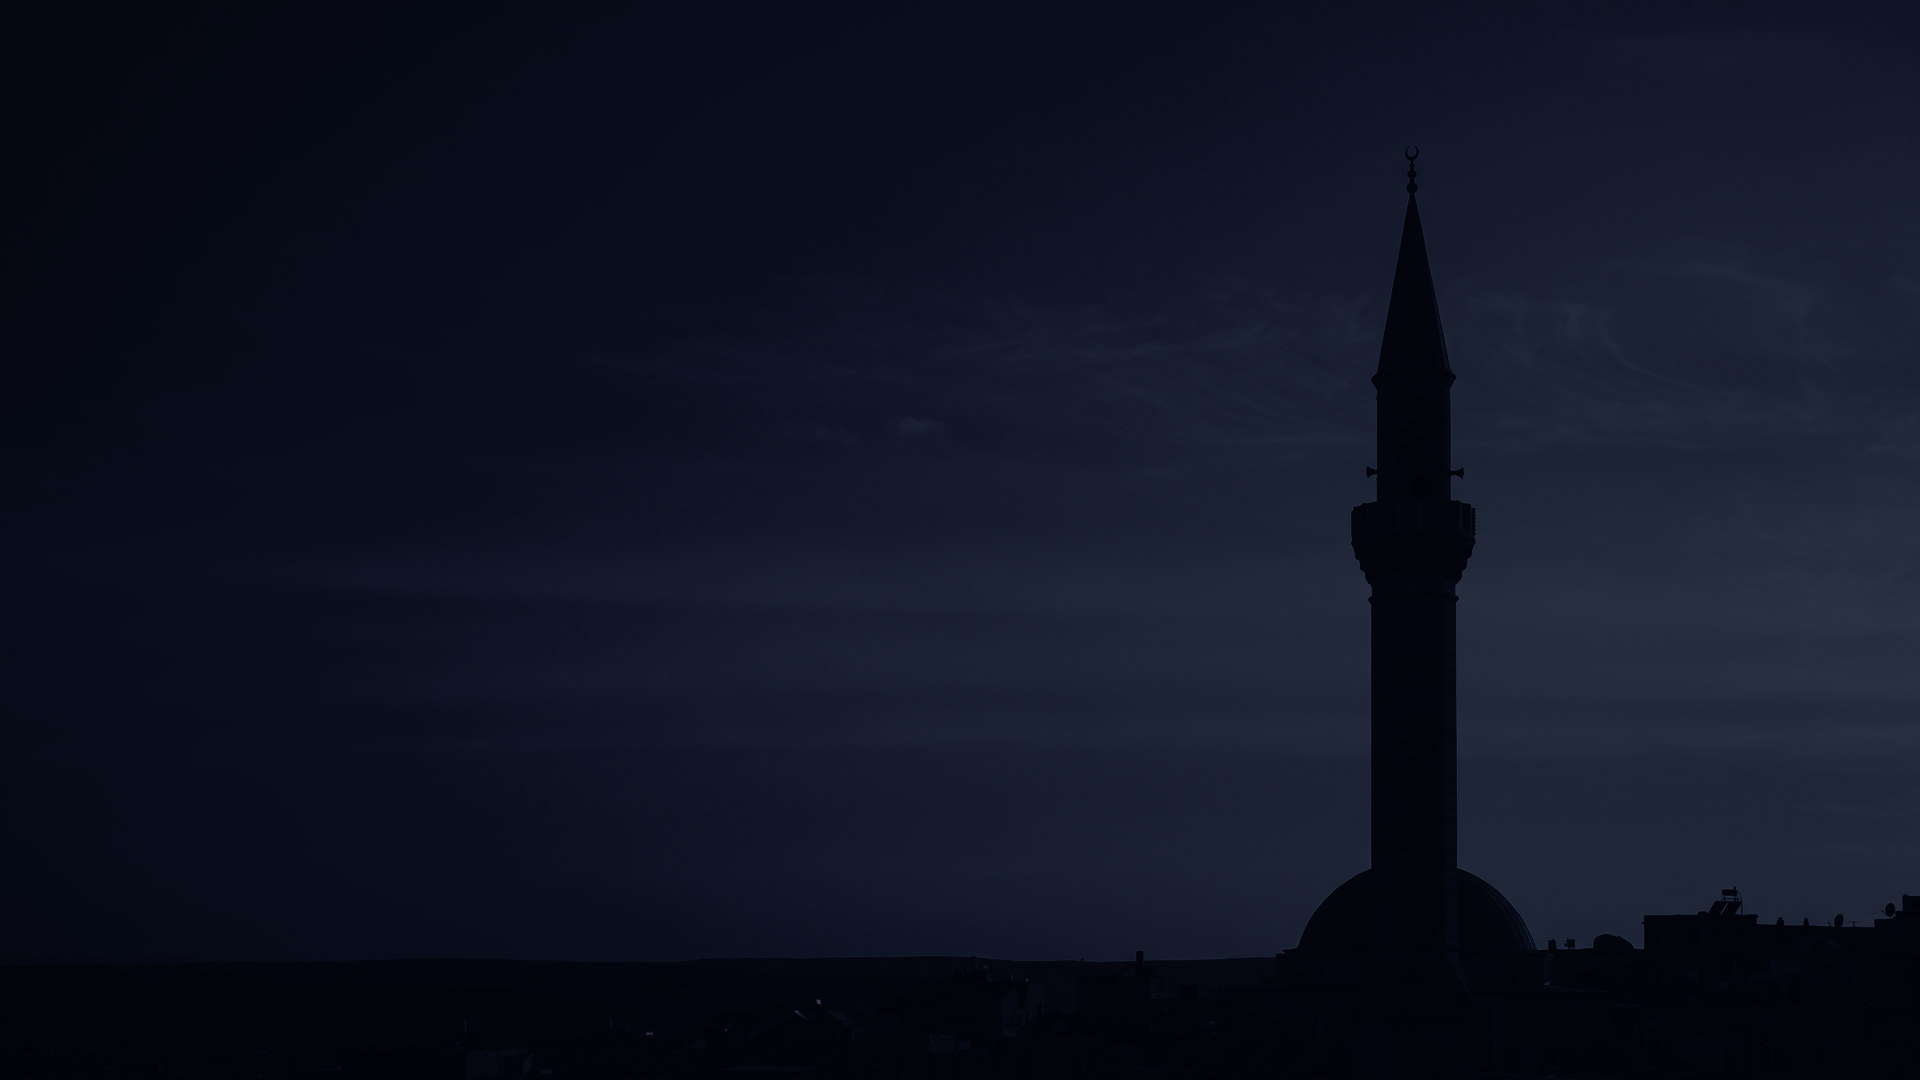
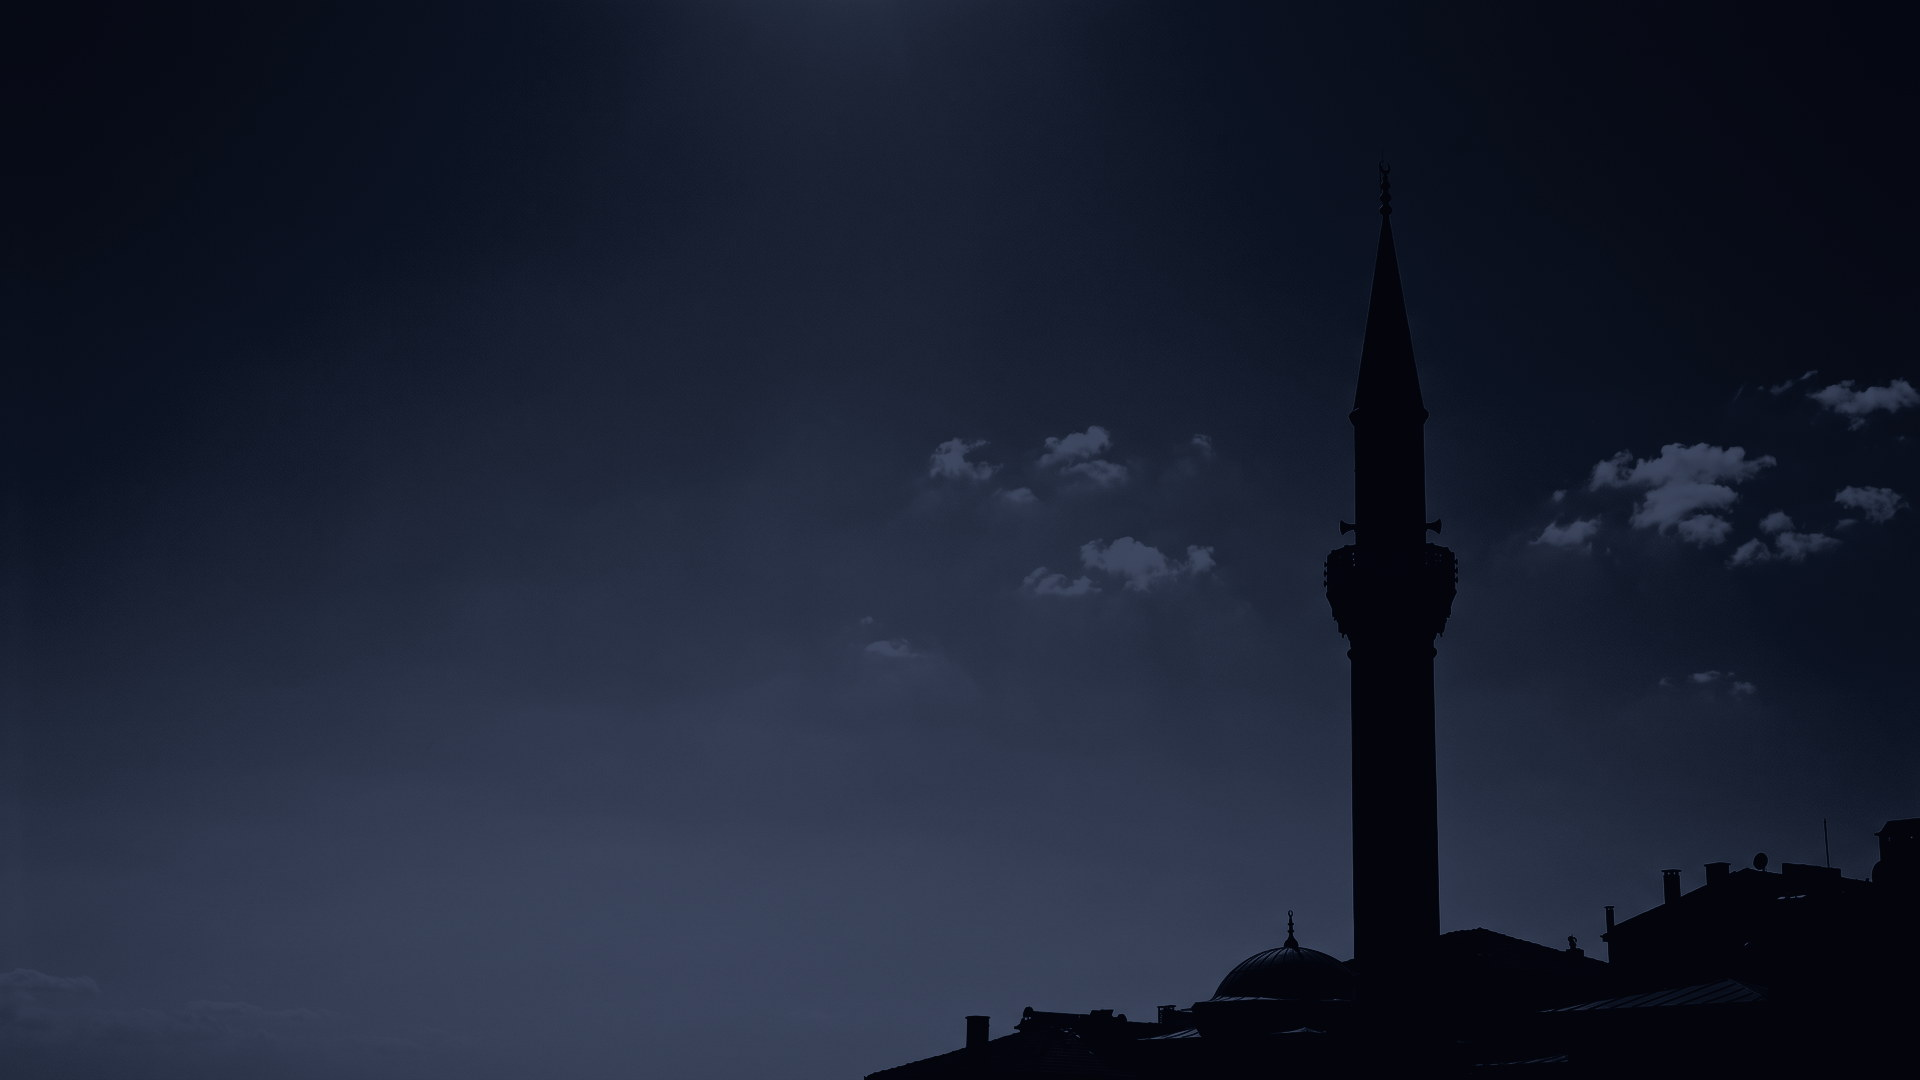
Fix daytime brightness; add ?at= time preview and an hours contact sheet
The master was shot at blue hour, so recolouring it could never produce a
bright midday — Dhuhr inherited a dim source and read as dusk at 2pm.
New master is genuinely high-key (mean luminance 0.68), and each hour now
gets its own gamma on the shared luminance channel as well as its own
tritone. Gamma is monotonic so pixel correspondence, and the no-ghost
property, survive. Dhuhr 0.77 vs Isha 0.13.

Scrim was a broad wash flattening the bright sky back to dusk; it is now
local to where type actually sits.

diff --git a/hours.html b/hours.html
@@ -1,0 +1,72 @@
+<!doctype html>
+<html lang="en">
+<head>
+<meta charset="utf-8">
+<meta name="viewport" content="width=device-width, initial-scale=1">
+<title>bilal — the day</title>
+<link href="https://fonts.googleapis.com/css2?family=Prata&family=Archivo:wght@400;500;600&display=swap" rel="stylesheet">
+<style>
+  :root{--clay:#d9a48f;--cream:#f6efe7;--deep:#17140f;--veil:rgba(246,239,231,.44)}
+  *{box-sizing:border-box;margin:0;padding:0}
+  body{background:var(--deep);color:var(--cream);font-family:'Archivo',system-ui,sans-serif;
+       padding:48px 40px 64px}
+  h1{font-family:'Prata',Georgia,serif;font-size:38px;letter-spacing:-.02em;font-weight:400}
+  .sub{color:var(--veil);margin-top:10px;font-size:15px;line-height:1.6;max-width:70ch}
+  .sub b{color:var(--clay);font-weight:600}
+  .grid{margin-top:40px;display:grid;gap:34px;
+        grid-template-columns:repeat(auto-fit,minmax(460px,1fr))}
+  .cell{}
+  .lab{display:flex;align-items:baseline;justify-content:space-between;
+       margin-bottom:12px;padding-bottom:10px;border-bottom:1px solid rgba(246,239,231,.14)}
+  .lab .n{font-family:'Prata',Georgia,serif;font-size:22px}
+  .lab .t{font-size:13px;letter-spacing:.16em;text-transform:uppercase;color:var(--clay);font-weight:600}
+  .lab .d{font-size:13px;color:var(--veil);margin-left:14px}
+  .frame{position:relative;width:100%;padding-top:56.25%;overflow:hidden;
+         border-radius:4px;background:#000}
+  .frame iframe{position:absolute;top:0;left:0;width:1920px;height:1080px;border:0;
+                transform-origin:top left}
+</style>
+</head>
+<body>
+  <h1>bilal, across one day</h1>
+  <p class="sub">Every panel is the real display running live, with the clock overridden.
+     All five skies are <b>one photograph</b> graded five ways off a shared luminance
+     channel, so the minaret never shifts and the blend between them has nothing to ghost.
+     The sky moves <b>continuously</b> through each window rather than snapping — the last
+     panel catches it mid-handover.<br>
+     Preview any moment yourself by adding <b>?at=HH:MM</b> to the display URL.</p>
+
+  <div class="grid" id="grid"></div>
+
+<script>
+  var HOURS=[
+    {n:'fajr',    at:'04:20', d:'before first light'},
+    {n:'dhuhr',   at:'12:30', d:'high and open'},
+    {n:'asr',     at:'17:45', d:'long gold'},
+    {n:'maghrib', at:'20:20', d:'ember'},
+    {n:'isha',    at:'22:00', d:'night, stars drifting'},
+    {n:'mid-handover', at:'19:40', d:'asr becoming maghrib'}
+  ];
+  var g=document.getElementById('grid');
+  g.innerHTML=HOURS.map(function(h){
+    return '<div class="cell">'
+      + '<div class="lab"><span><span class="n">'+h.n+'</span>'
+      + '<span class="d">'+h.d+'</span></span><span class="t">'+h.at+'</span></div>'
+      + '<div class="frame"><iframe scrolling="no" loading="lazy" '
+      + 'src="index.html?quiet=1&at='+h.at+'"></iframe></div></div>';
+  }).join('');
+
+  // scale each 1920x1080 frame down to whatever width the column ended up
+  function fit(){
+    var frames=document.querySelectorAll('.frame');
+    for(var i=0;i<frames.length;i++){
+      var w=frames[i].clientWidth;
+      frames[i].querySelector('iframe').style.transform='scale('+(w/1920)+')';
+    }
+  }
+  window.addEventListener('resize',fit);
+  window.addEventListener('load',fit);
+  fit();
+</script>
+</body>
+</html>

diff --git a/index.html b/index.html
@@ -143,9 +143,12 @@ body.cursor{cursor:auto}
 /* scrim: pure gradients, no blur. Darkens where type lives. */
 #scrim{position:fixed;top:0;right:0;bottom:0;left:0;z-index:2;pointer-events:none;
   background:
-    linear-gradient(to bottom, rgba(23,20,15,.62) 0%, rgba(23,20,15,.26) 14%, rgba(23,20,15,0) 32%),
-    linear-gradient(to top,    rgba(23,20,15,.92) 0%, rgba(23,20,15,.66) 26%, rgba(23,20,15,0) 60%),
-    linear-gradient(to right,  rgba(23,20,15,.70) 0%, rgba(23,20,15,.22) 48%, rgba(23,20,15,0) 78%)}
+    /* A broad wash was flattening a bright midday sky back into dusk. These are
+       tighter and local: protect exactly where type sits, leave the sky open. */
+    radial-gradient(ellipse 58% 42% at 20% 47%, rgba(23,20,15,.52) 0%, rgba(23,20,15,.20) 52%, rgba(23,20,15,0) 78%),
+    linear-gradient(to bottom, rgba(23,20,15,.44) 0%, rgba(23,20,15,.14) 13%, rgba(23,20,15,0) 26%),
+    linear-gradient(to top,    rgba(23,20,15,.90) 0%, rgba(23,20,15,.52) 22%, rgba(23,20,15,0) 46%),
+    linear-gradient(to right,  rgba(23,20,15,.50) 0%, rgba(23,20,15,.14) 42%, rgba(23,20,15,0) 68%)}
 #wash{position:fixed;top:0;right:0;bottom:0;left:0;z-index:2;pointer-events:none;
   background:radial-gradient(ellipse at 30% 62%, rgba(217,164,143,.30) 0%, rgba(217,164,143,.06) 42%, rgba(23,20,15,0) 72%);
   opacity:0;-webkit-transition:opacity 1s ease;transition:opacity 1s ease}
@@ -341,8 +344,18 @@ body.dimmed #scrim{opacity:.5}
     mode: Q.get('mode')||'home',
     athan:Q.get('athan')||'athan.mp3',
     quiet:Q.get('quiet')==='1',
-    dim:  Q.get('dim')!=='0'
+    dim:  Q.get('dim')!=='0',
+    at:   Q.get('at')||''          // ?at=17:40 to preview any hour
   };
+
+  // Time override for previewing. Real clock unless ?at= is given.
+  var SHIFT=0;
+  if(/^\d{1,2}:\d{2}$/.test(CFG.at)){
+    var hm=CFG.at.split(':'), t=new Date();
+    t.setHours(parseInt(hm[0],10), parseInt(hm[1],10), 0, 0);
+    SHIFT = t.getTime() - Date.now();
+  }
+  function nowDate(){ return new Date(Date.now()+SHIFT); }
   document.body.setAttribute('data-mode',CFG.mode);
 
   var API='https://api.masjidbox.com/1.0/masjidbox/landing/athany/';
@@ -591,7 +604,7 @@ body.dimmed #scrim{opacity:.5}
   }
 
   function paint(){
-    var now=new Date();
+    var now=nowDate();
     $('clock').textContent=hhmm(now);
 
     var row=rowFor(now);
